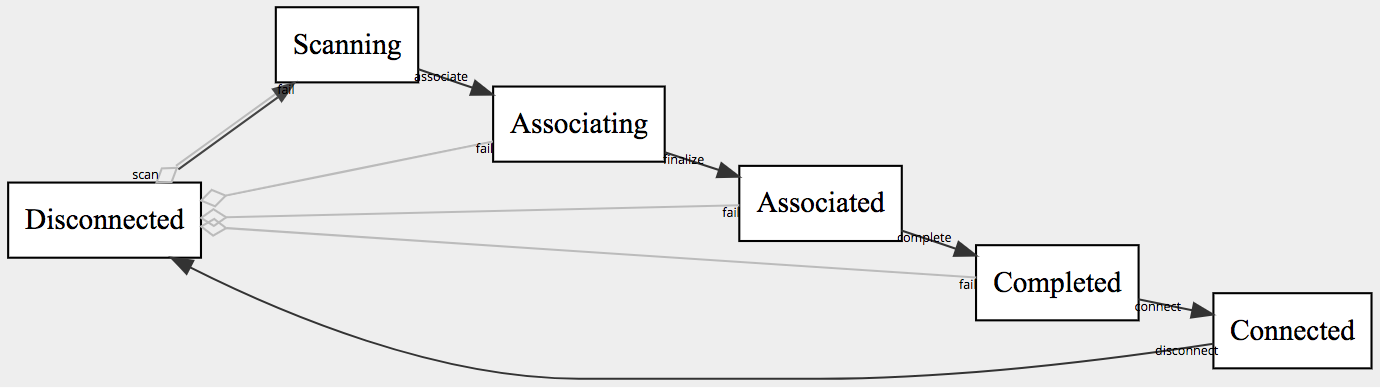
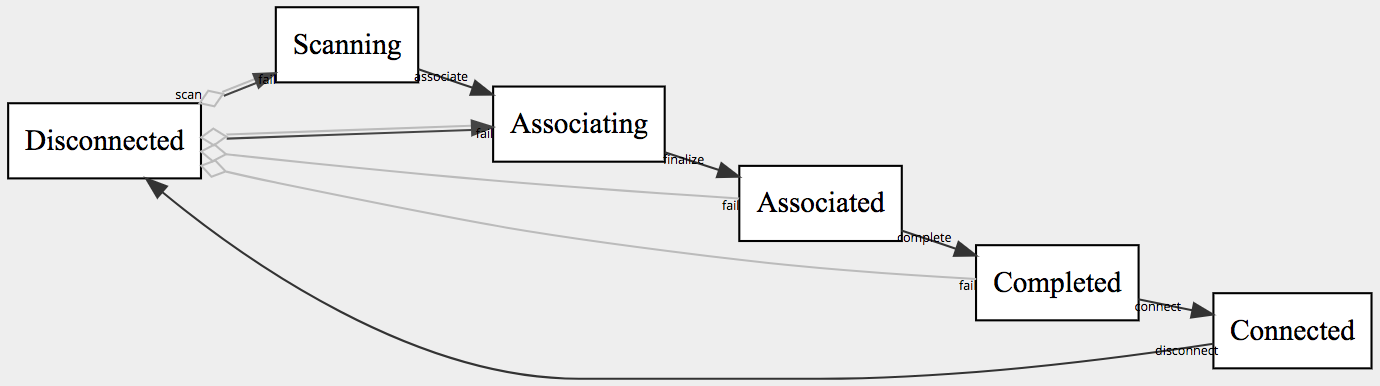
Add main path link from disconnected to associating.  Changed all disconnects except from connected to forced.

diff --git a/README.md b/README.md
@@ -10,7 +10,7 @@ machine_name     : "Wifi lifecycle";
 machine_author   : "John Haugeland <stonecypher@gmail.com>";
 machine_license  : MIT;
 machine_language : en;
-machine_version  : 1.0.0;
+machine_version  : 1.0.1;
 fsl_version      : 1.0.0;
 
 start_states     : [Disconnected];
@@ -26,7 +26,9 @@ Associated   'complete'   =>
 Completed    'connect'    =>
 Connected    'disconnect' => Disconnected;
 
-[Scanning Associating Associated Completed] 'fail' -> Disconnected;
+Disconnected => Associating;
+
+[Scanning Associating Associated Completed] 'fail' ~> Disconnected;
 ```
 
 ## Reference
